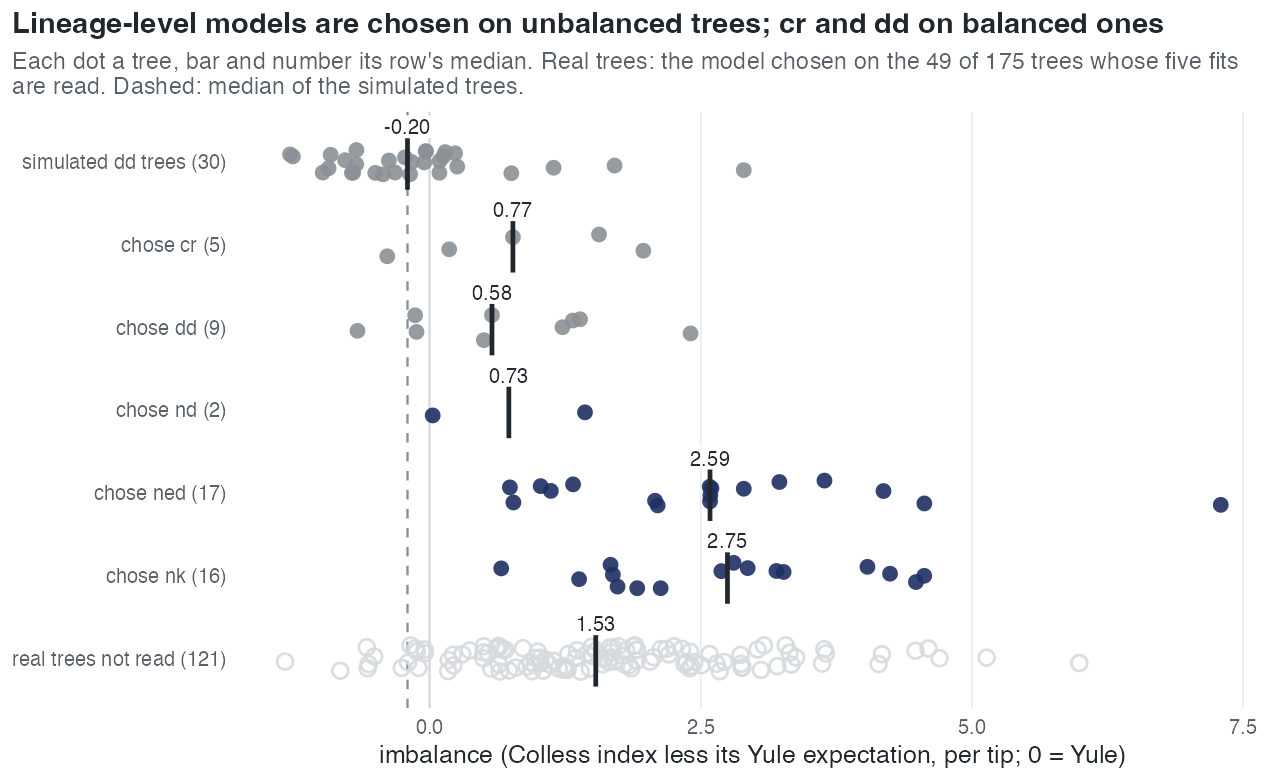
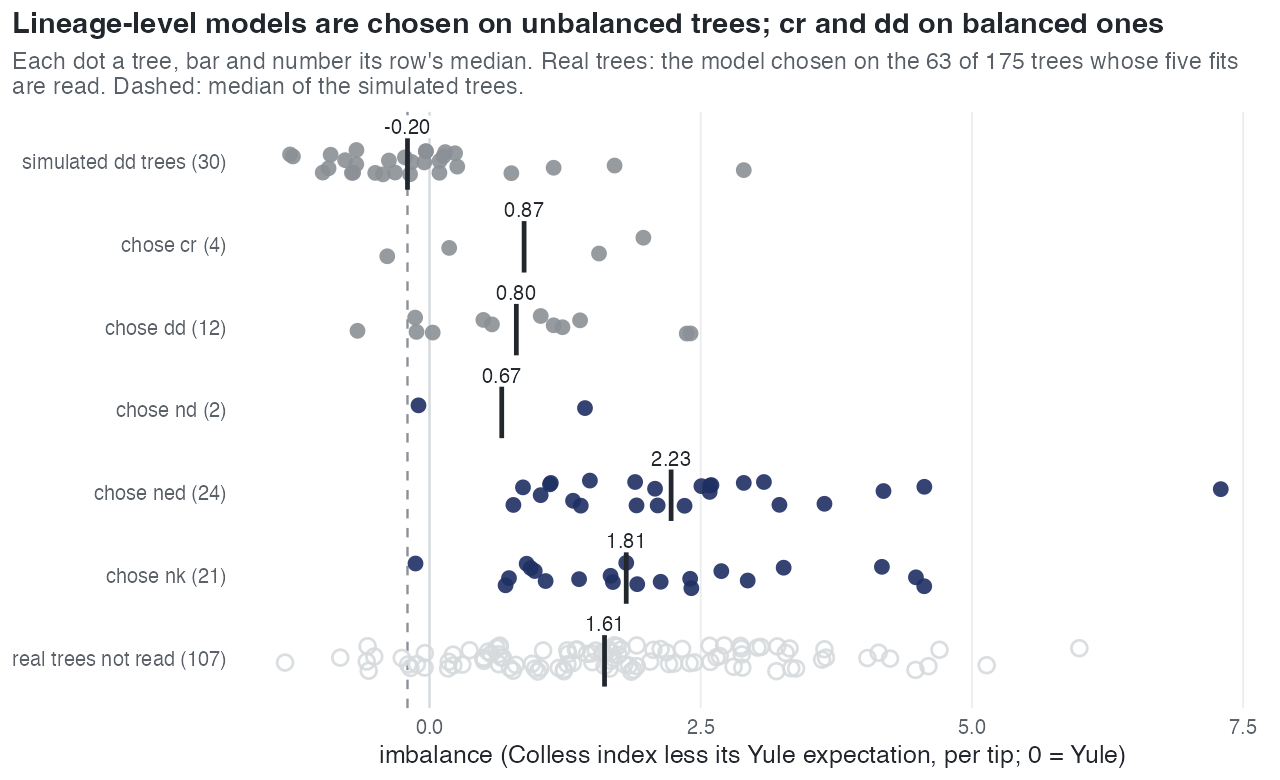
Site rebuilt from the wiki of 21 November (V11b, the reading of record on the real trees); README: the real-tree paragraph from V11b

diff --git a/docs/experiments/V11.html b/docs/experiments/V11.html
@@ -54,9 +54,9 @@ window.MathJax = {
 </li>
 <li><a href="#pre-set-rules">Pre-set rules</a>
 </li>
-<li><a href="#results">Results</a>
-</li>
 <li><a href="#amendment-of-19-november-v11b">Amendment of 19 November (V11b)</a>
+</li>
+<li><a href="#results">Results</a>
 </li>
 </ol>
 </nav>
@@ -65,7 +65,7 @@ window.MathJax = {
 <tbody>
 <tr>
 <td>Status</td>
-<td>complete on 18 November 2026 (865 of 875 fits under emphasis <code>b21083f</code> and <code>projected</code>): 49 of 175 trees read; on them the conditioned ladder makes the unconditioned choice of <a href="E40.html">E40</a> on 46 of 49. Amendment of 2026-11-19 (V11b): every tree's <code>nd</code> fit refitted on the surrogate proposal (175 fits, running on Bre) and the 10 stopped fits refitted with a 44-hour clock</td>
+<td>read on 21 November 2026 with the <code>nd</code> fit on the surrogate proposal (amendment of 2026-11-19, V11b): 63 of 175 trees read, on them the conditioned ladder makes the unconditioned choice of <a href="E40.html">E40</a> on 60 of 63; all 175 <code>nd</code> refits in, the 10 refits on the 44-hour clock (nine <code>nk</code>, one <code>ned</code>) queued on Bre. The reading with the thinning <code>nd</code> fits (865 of 875 fits, 18 November) is the registered one and is reported beside it</td>
 </tr>
 <tr>
 <td>Series</td>
@@ -105,17 +105,21 @@ window.MathJax = {
 </div>
 <h2 id="pre-set-rules">Pre-set rules</h2>
 <ol type="1">
-<li>Registered to be submitted once V1–V10 are read; submitted on 11 November under the protocol settled on 8 November, because <a href="V7.html">V7</a>'s first reading (the conditioned ladder names <code>ned</code> on 2 of 52 simulated trees with an ED effect, <code>nk</code> on 12 of 20 in the one cell read) puts in question the <code>ned</code> and <code>nk</code> choices the unconditioned fits made on the real trees (<a href="E40.html">E40</a>: 50 and 67 of 170). A change of protocol V5–V10 call for reruns it.</li>
+<li>Registered to be submitted once V1–V10 are read; submitted on 11 November under the protocol settled on 8 November, because <a href="V7.html">V7</a>'s first reading (the conditioned ladder names <code>ned</code> on 2 of 52 simulated trees with an ED effect, <code>nk</code> on 12 of 20 in the one cell read) puts in question the <code>ned</code> and <code>nk</code> choices the unconditioned fits made on the real trees (<a href="E40.html">E40</a>: 51 and 67 of 170). A change of protocol V5–V10 call for reruns it.</li>
 </ol>
-<h2 id="results">Results</h2>
-<p>Read 18 November (<code>sim/V11-analysis.R</code>; tables in <code>results/V11/</code>). A fit is read when it ended converged or on the 1000-iteration cap with a finite log-likelihood and a final effective sample of at least 10 (the protocol of the amendment of 2026-11-11); a tree is read when its five ladder fits are; the choice is the fewest parameters within 2 AIC of the minimum.</p>
-<p><strong>Fits.</strong> 668 of 865 read: <code>cr</code> 175 of 175, <code>dd</code> 168, <code>ned</code> 143, <code>nk</code> 108, <code>nd</code> 74. The unread fits are at an effective sample below 10 (<code>nd</code> 93, <code>nk</code> 45, <code>ned</code> 24, <code>dd</code> 4), on the 22-hour clock (15) or without a log-likelihood (16).</p>
-<p><strong>Trees.</strong> 49 read, 116 unread, 10 incomplete (a job without a row). <code>nd</code> alone leaves 101 trees unread, <code>nk</code> 67, <code>ned</code> 32, <code>dd</code> 7 (a tree can fail on several). The read trees have 50–196 tips (median 109), the unread ones 50–370 (median 125).</p>
-<p><strong>Choice on the 49 read trees:</strong> <code>cr</code> 5, <code>dd</code> 9, <code>nd</code> 2, <code>ned</code> 17, <code>nk</code> 16 — a lineage-level model on 35. By set: class-tree clades <code>cr</code> 3, <code>dd</code> 5, <code>ned</code> 14, <code>nk</code> 10; Condamine families <code>cr</code> 2, <code>dd</code> 4, <code>nd</code> 2, <code>ned</code> 3, <code>nk</code> 6. Against <a href="E40.html">E40</a>'s unconditioned choice on the same trees the choice is the same on 46 of 49 (<code>cr</code> 5, <code>dd</code> 9, <code>ned</code> 16, <code>nk</code> 16); the three that differ move from <code>cr</code> or <code>dd</code> to <code>nd</code> and from <code>nk</code> to <code>ned</code>. <span class="math inline">\(\beta_K\)</span> is positive on all 16 <code>nk</code> trees (median 0.148). A richer read fit lies more than 1 log-likelihood unit below the model it nests on 3 read trees.</p>
-<p><strong>Descriptive, not the design's ladder</strong> (the four fits <code>cr</code>, <code>dd</code>, <code>ned</code>, <code>nk</code>, leaving out <code>nd</code>, whose sampler fails most often): 96 trees have all four read; the choice is <code>cr</code> 6, <code>dd</code> 19, <code>ned</code> 33, <code>nk</code> 38, and E40's choice is kept on 90 of 96. The trees choosing <code>ned</code> or <code>nk</code> have a median of 124 tips, those choosing <code>cr</code> or <code>dd</code> 71.</p>
-<p><strong>What it does not settle.</strong> On simulated trees of about 100 tips the same ladder names a lineage-level model on 0 of 54 trees without one and misses most real effects (<a href="V7.html">V7</a>); on real trees it names one on 35 of 49 read trees. Whether those choices reflect a lineage-level process or a feature of real trees that the simulations lack (imbalance, the processes of <a href="V9.html">V9</a>) is not decided by V11.</p>
 <h2 id="amendment-of-19-november-v11b">Amendment of 19 November (V11b)</h2>
-<p>The <code>nd</code> fit, on its default thinning proposal, has a final effective sample below 10 on 93 of 175 trees and alone leaves 101 trees unread. Every tree's <code>nd</code> fit is refitted with the surrogate proposal (<code>control$sampling = "bdi"</code>), otherwise as above, with an 18-hour clock, and the 10 fits the cluster stopped (nine <code>nk</code>, one <code>ned</code>) are refitted as above with a 44-hour clock (<code>sim/V11b.R</code>, <code>results/V11b</code>). A test fit on a 50-tip tree kept 191 effective draws of 200. The reading (<code>sim/V11-analysis.R --v11b</code>) replaces each tree's <code>nd</code> row by its V11b row; the reading above stays as the registered one.</p>
+<p>The <code>nd</code> fit on its default thinning proposal is unread for an effective sample below 10 on 93 of 175 trees (final effective sample below 10 on 101; median 7.4). Every tree's <code>nd</code> fit is refitted with the surrogate proposal (<code>control$sampling = "bdi"</code>), otherwise as above, with an 18-hour clock, and the 10 fits the cluster stopped (nine <code>nk</code>, one <code>ned</code>) are refitted as above with a 44-hour clock (<code>sim/V11b.R</code>, <code>results/V11b</code>). <a href="V5.html">V5</a>'s gate measured 143 to 620 effective draws with the surrogate on simulated <code>nd</code> trees of 200 tips, where thinning keeps 2 to 8. The reading replaces each tree's <code>nd</code> row by its V11b row and adds the refitted rows; everything else is V11's reading. The reading with the surrogate <code>nd</code> is the one the papers report; the reading with the thinning <code>nd</code> stays recorded as the registered one and is given beside it.</p>
+<h2 id="results">Results</h2>
+<p>Read 21 November (<code>sim/V11-analysis.R</code> <code>--v11b</code>, <code>sim/V11-report.R --dir results/V11b</code>; tables in <code>results/V11b/</code>). The 10 refits on the 44-hour clock are not yet in; their trees are counted as incomplete. A fit is read when it ended converged or on the 1000-iteration cap with a finite log-likelihood and a final effective sample of at least 10 (the protocol of the amendment of 2026-11-11); a tree is read when its five ladder fits are; the choice is the fewest parameters within 2 AIC of the minimum.</p>
+<p><strong>Fits.</strong> 697 of 865 read: <code>cr</code> 175 of 175, <code>dd</code> 168, <code>ned</code> 143, <code>nk</code> 108, <code>nd</code> 103. The <code>nd</code> fits on the surrogate have a median final effective sample of 13.0; 102 of the 103 read ones end on the iteration cap. The unread fits are at an effective sample below 10 (139: <code>nd</code> 66, <code>nk</code> 45, <code>ned</code> 24, <code>dd</code> 4), on the clock (19) or without a log-likelihood (10).</p>
+<p><strong>Trees.</strong> 63 read, 102 unread, 10 incomplete (a job without a row); 48 of the read trees are class-tree clades and 15 Condamine families. Of the 102 unread trees, <code>nd</code> fails on 67 (on 33 it is the only model that fails), <code>nk</code> on 57, <code>ned</code> on 31, <code>dd</code> on 6. The read trees have 50–196 tips (median 111), the unread ones 50–370 (median 116).</p>
+<p><strong>Choice on the 63 read trees:</strong> <code>cr</code> 4, <code>dd</code> 12, <code>nd</code> 2, <code>ned</code> 24, <code>nk</code> 21 — a lineage-level model on 47. By set: class-tree clades <code>cr</code> 2, <code>dd</code> 7, <code>nd</code> 1, <code>ned</code> 20, <code>nk</code> 18; Condamine families <code>cr</code> 2, <code>dd</code> 5, <code>nd</code> 1, <code>ned</code> 4, <code>nk</code> 3. By class, 51 of the read trees are birds (lineage-level on 44) and 12 mammals (on 3). Against <a href="E40.html">E40</a>'s unconditioned choice on the same trees the choice is the same on 60 of 63; the three that differ move from <code>cr</code> to <code>dd</code>, from <code>cr</code> to <code>nd</code> and from <code>nk</code> to <code>ned</code>. <span class="math inline">\(\beta_K\)</span> is positive on all 21 <code>nk</code> trees (median 0.140). A richer read fit lies more than 1 log-likelihood unit below the model it nests on 1 read tree.</p>
+<p><strong>Factors</strong> (speciation rate ratio per standard deviation of the covariate, over the read fits off the speciation edge of the box). <span class="math inline">\(K\)</span>: median 1.50, above 1 on 104 of 108 read <code>nk</code> fits; on the 21 trees choosing <code>nk</code> median 1.56, above 1 on all. ED: median 0.67, above 1 on 3 of the 109 with a factor; on the 24 trees choosing <code>ned</code> median 0.48, above 1 on none. <span class="math inline">\(D\)</span>: median 0.79, above 1 on 14 of 99; on the 2 trees choosing <code>nd</code> median 1.10. The <span class="math inline">\(K\)</span> factor rises with the normalised Colless index (rank correlation 0.63 over 108 fits) and the ED factor falls with it (−0.58 over all 143 read <code>ned</code> fits, −0.49 over the 109 drawn in the figure). The trees choosing a lineage-level model have a median Colless index of 1.91, those choosing <code>cr</code> or <code>dd</code> 0.80.</p>
+<p><strong>The pairs.</strong> Both members are read on 3 of the 30 pairs (same choice on 1). Where a coefficient is read in both members its factor lies on the same side of 1 on 21 of 22 (<span class="math inline">\(D\)</span> 5 of 6, ED 6 of 6, <span class="math inline">\(K\)</span> 10 of 10).</p>
+<p><strong>Where the two readings differ.</strong> The <code>nd</code> fit is read on both samplers on 52 trees, on the thinning proposal only on 22 and on the surrogate only on 51; its median final effective sample is 7.4 on thinning and 13.0 on the surrogate. 37 trees differ in state or choice (36 change state; the Bovidae family tree changes choice). 25 are read only with the surrogate <code>nd</code> (thinning effective sample 1.0–7.5, surrogate 10.6–197.9), among them the Condamine families Phasianidae (<code>ned</code>), Scolopacidae (<code>nk</code>) and Troglodytidae (<code>dd</code>). 11 are read only with the thinning <code>nd</code>, whose surrogate fit keeps 1.3–8.3 effective draws: the Condamine families Corvidae (<code>nk</code> on thinning), Hirundinidae (<code>nk</code>), Laridae (<code>nk</code>), Leporidae (<code>nk</code>) and Monarchidae (<code>dd</code>), and the clades bird-051-Monarchidae, bird-065-Falconidae, bird-070-Tinamidae, mamm-015-Bovidae, mamm-034-Cricetidae and mamm-035-Nesomyidae. The Bovidae family tree is read in both and moves from <code>nd</code> (thinning) to <code>dd</code> (surrogate). The <code>nk</code> and <code>ned</code> fits are the same in both readings, so their factors and AIC comparisons do not change; only the choices of trees whose <code>nd</code> row changes do.</p>
+<p><strong>The thinning reading (V11, registered).</strong> Read 18 November (<code>results/V11/</code>): 668 of 865 fits read (<code>nd</code> 74); 49 trees read, 116 unread, 10 incomplete; <code>nd</code> fails on 93 of the 116 unread trees. Choice on the 49: <code>cr</code> 5, <code>dd</code> 9, <code>nd</code> 2, <code>ned</code> 17, <code>nk</code> 16, a lineage-level model on 35 (median Colless 2.59 against 0.67 for <code>cr</code> or <code>dd</code>); E40's choice kept on 46 of 49; <span class="math inline">\(\beta_K\)</span> positive on all 16 <code>nk</code> trees (median 0.148); 17 family trees read; both members of 2 pairs read.</p>
+<p><strong>Descriptive, not the design's ladder</strong> (the four fits <code>cr</code>, <code>dd</code>, <code>ned</code>, <code>nk</code>, leaving out <code>nd</code>; the same in both readings): 96 trees have all four read; the choice is <code>cr</code> 6, <code>dd</code> 19, <code>ned</code> 33, <code>nk</code> 38, and E40's choice is kept on 90 of 96. The trees choosing <code>ned</code> or <code>nk</code> have a median of 124 tips, those choosing <code>cr</code> or <code>dd</code> 71.</p>
+<p><strong>What it does not settle.</strong> On simulated trees of about 100 tips the same ladder names a lineage-level model on 0 of 54 trees without one and misses most real effects (<a href="V7.html">V7</a>); on real trees it names one on 47 of 63 read trees. Whether those choices reflect a lineage-level process or a feature of real trees that the simulations lack (imbalance, the processes of <a href="V9.html">V9</a>) is not decided by V11.</p>
 
 </article>
 </main>

diff --git a/docs/real-phylogenies.html b/docs/real-phylogenies.html
@@ -66,28 +66,28 @@ window.MathJax = {
 </li>
 </ol>
 </nav>
-<p>The trees are the bird and mammal family trees of Condamine et al. (2019) with 50 to 400 tips, a tip-depth spread of at most 15% of the crown age and a sampling fraction against the class tree between 0.5 and 1.10 (59 trees, <span class="math inline">\(\rho\)</span> taken as <span class="math inline">\(\min(\rho, 1)\)</span>), and the bird and mammal class trees (McTavish et al. 2025, 10,824 tips; Upham et al. 2019, 5,912 tips) cut from the root into disjoint clades of 50 to 200 tips (116 clades, <span class="math inline">\(\rho = 1\)</span>); 30 clades stand for a family that also has a Condamine tree, and make the pairs. Every tree is fitted by the five models of the ladder under the protocol of the validation series (<a href="experiments/V11.html">V11</a>): conditioned on survival, emphasis <code>b21083f</code>, 200 draws, <code>projected</code>, a fit on the 1000-iteration cap read as the estimate, a 22-hour clock. A fit is read when it ended by its rule or on the cap with a final effective sample of at least 10; a statement about one model rests on that model's read fits, and a model choice on the trees whose five fits are read. The <code>nd</code> rung is being refitted on the surrogate proposal (<a href="experiments/V11.html">V11</a>, V11b); the numbers below are V11's registered reading.</p>
+<p>The trees are the bird and mammal family trees of Condamine et al. (2019) with 50 to 400 tips, a tip-depth spread of at most 15% of the crown age and a sampling fraction against the class tree between 0.5 and 1.10 (59 trees, <span class="math inline">\(\rho\)</span> taken as <span class="math inline">\(\min(\rho, 1)\)</span>), and the bird and mammal class trees (McTavish et al. 2025, 10,824 tips; Upham et al. 2019, 5,912 tips) cut from the root into disjoint clades of 50 to 200 tips (116 clades, <span class="math inline">\(\rho = 1\)</span>); 30 clades stand for a family that also has a Condamine tree, and make the pairs. Every tree is fitted by the five models of the ladder under the protocol of the validation series (<a href="experiments/V11.html">V11</a>): conditioned on survival, emphasis <code>b21083f</code>, 200 draws, <code>projected</code>, a fit on the 1000-iteration cap read as the estimate, a 22-hour clock (the surrogate <code>nd</code> fits 18 hours). A fit is read when it ended by its rule or on the cap with a final effective sample of at least 10; a statement about one model rests on that model's read fits, and a model choice on the trees whose five fits are read. The <code>nd</code> fit is the one on the surrogate proposal (the reading of <a href="experiments/V11.html">V11</a>'s amendment V11b; 10 refits of <code>nk</code> and <code>ned</code> pending); the reading with the thinning <code>nd</code>, the registered one, is given beside it. The <code>cr</code>, <code>dd</code>, <code>ned</code> and <code>nk</code> fits are the same in both readings.</p>
 <h2 id="diversity-dependence">Diversity dependence</h2>
 <figure id="figure-1">
 <img src="assets/wiki/fig-p-real-ddgamma.png" alt="dd lead against gamma" loading="lazy">
 <figcaption><strong>Figure 1.</strong> dd lead against gamma</figcaption>
-</figure><p><code>dd</code> leads <code>cr</code> by more than 2 AIC on 147 of the 168 trees where both fits are read (43 of 56 family trees), and <span class="math inline">\(\beta_N\)</span> is negative on all 168. The lead tracks <span class="math inline">\(\gamma_{\mathrm{PH}}\)</span> (rank correlation −0.97; −0.89 over the family trees); the largest family leads are Thraupidae (161 AIC), Parulidae (54), Phasianidae (41), Cercopithecidae (36) and Turdidae (35). (<code>results/V11/dd-vs-cr.csv</code>)</p>
+</figure><p><code>dd</code> leads <code>cr</code> by more than 2 AIC on 147 of the 168 trees where both fits are read (43 of 56 family trees), and <span class="math inline">\(\beta_N\)</span> is negative on all 168. The lead tracks <span class="math inline">\(\gamma_{\mathrm{PH}}\)</span> (rank correlation −0.97; −0.89 over the family trees); the largest family leads are Thraupidae (161 AIC), Parulidae (54), Phasianidae (41), Cercopithecidae (36) and Turdidae (35). (<code>results/V11b/dd-vs-cr.csv</code>)</p>
 <h2 id="model-choice">Model choice</h2>
 <figure id="figure-2">
 <img src="assets/wiki/fig-p-real-imbalance.png" alt="model choice against imbalance" loading="lazy">
 <figcaption><strong>Figure 2.</strong> model choice against imbalance</figcaption>
-</figure><p>49 trees have all five fits read (17 family trees, 32 clades); the <code>nd</code> fit alone leaves 101 unread (effective sample below 10 on 93). On the 49 the parsimony rule chooses <code>ned</code> on 17, <code>nk</code> on 16, <code>nd</code> on 2, <code>dd</code> on 9 and <code>cr</code> on 5, and the trees that choose a lineage-level model have a median normalised Colless index of 2.59 against 0.67 for those that stop at <code>cr</code> or <code>dd</code>; 30 simulated <code>dd</code> trees sit at −0.20. On the 49, the unconditioned ladder of <a href="experiments/E40.html">E40</a> made the same choice on 46. Leaving <code>nd</code> out (a reading the design did not register), 96 trees have four fits read: <code>nk</code> 38, <code>ned</code> 33, <code>dd</code> 19, <code>cr</code> 6. (<code>results/V11/trees.csv</code>)</p>
+</figure><p>63 trees have all five fits read (15 family trees, 48 clades); 102 are unread, <code>nd</code> failing on 67 of them (effective sample below 10 on 64), and 10 incomplete. On the 63 the parsimony rule chooses <code>ned</code> on 24, <code>nk</code> on 21, <code>nd</code> on 2, <code>dd</code> on 12 and <code>cr</code> on 4, and the trees that choose a lineage-level model have a median normalised Colless index of 1.91 against 0.80 for those that stop at <code>cr</code> or <code>dd</code>; 30 simulated <code>dd</code> trees sit at −0.20. On the 63, the unconditioned ladder of <a href="experiments/E40.html">E40</a> made the same choice on 60. With the thinning <code>nd</code> 49 trees are read (17 family trees) and choose <code>ned</code> 17, <code>nk</code> 16, <code>nd</code> 2, <code>dd</code> 9, <code>cr</code> 5 (Colless 2.59 against 0.67). Leaving <code>nd</code> out (a reading the design did not register), 96 trees have four fits read: <code>nk</code> 38, <code>ned</code> 33, <code>dd</code> 19, <code>cr</code> 6. (<code>results/V11b/trees.csv</code>, <code>results/V11/trees.csv</code>)</p>
 <h2 id="coefficients">Coefficients</h2>
 <figure id="figure-3">
 <img src="assets/wiki/fig-p-real-factors.png" alt="factors against imbalance" loading="lazy">
 <figcaption><strong>Figure 3.</strong> factors against imbalance</figcaption>
-</figure><p>The ancestral-split factor per standard deviation of <span class="math inline">\(K\)</span> is above 1 on 104 of 108 read <code>nk</code> fits (median 1.50) and on all 16 trees that choose <code>nk</code> (median 1.72). The distinctiveness factor is below 1 on 109 of the 112 read <code>ned</code> fits off the box edge (median 0.67) and on all 17 that choose <code>ned</code> (median 0.47). The age-imbalance factor has a median of 0.77 over 72 read <code>nd</code> fits. The <span class="math inline">\(K\)</span> factor rises with imbalance (rank correlation 0.63 over 108 fits) and the <span class="math inline">\(\mathrm{ED}\)</span> factor falls with it (−0.49 over 109). Where both are read, <code>nk</code> has the lower AIC on 59 of 98 trees. (<code>results/V11/coefficients.csv</code>)</p>
+</figure><p>The ancestral-split factor per standard deviation of <span class="math inline">\(K\)</span> is above 1 on 104 of 108 read <code>nk</code> fits (median 1.50) and on all 21 trees that choose <code>nk</code> (median 1.56). The distinctiveness factor is below 1 on 106 of the 112 read <code>ned</code> fits off the box edge (above 1 on 3; 3 without a finite factor; median 0.67) and on all 24 that choose <code>ned</code> (median 0.48). The age-imbalance factor has a median of 0.79 over the 99 read <code>nd</code> fits off the box edge (0.77 over 72 with the thinning <code>nd</code>). The <span class="math inline">\(K\)</span> factor rises with imbalance (rank correlation 0.63 over 108 fits) and the <span class="math inline">\(\mathrm{ED}\)</span> factor falls with it (−0.49 over 109). Where both are read, <code>nk</code> has a lower AIC than <code>ned</code> on 59 of 98 trees. (<code>results/V11b/coefficients.csv</code>)</p>
 <figure id="figure-4">
 <img src="assets/wiki/fig-p-real-trees.png" alt="four families" loading="lazy">
 <figcaption><strong>Figure 4.</strong> four families</figcaption>
-</figure><p>In the families that choose <code>nk</code> one genus holds most of the fast lineages: <em>Corvus</em> (factor 2.1), <em>Lepus</em> (2.7), <em>Pachycephala</em> (2.7); in the New World warblers (<code>ned</code>, 0.40) <em>Geothlypis</em> and part of <em>Setophaga</em>.</p>
+</figure><p>In the families drawn with their <code>nk</code> fit one genus holds most of the fast lineages: <em>Corvus</em> (factor 2.1), <em>Lepus</em> (2.7), <em>Pachycephala</em> (2.7); in the New World warblers (<code>ned</code>, 0.40) <em>Geothlypis</em> and part of <em>Setophaga</em>. Pachycephalidae chooses <code>nk</code> and Parulidae <code>ned</code>; Corvidae and Leporidae choose <code>nk</code> with the thinning <code>nd</code> and are unread with the surrogate <code>nd</code>, whose fit keeps 2.7 and 8.3 effective draws.</p>
 <h2 id="the-pairs">The pairs</h2>
-<p>Both members are read on 2 of the 30 pairs, so the pre-set rule (same choice on at least 70%, same sign on at least 80%) cannot be applied. Where a coefficient is read in both members, its factor lies on the same side of 1 on all 18. (<code>results/V11/pairs.csv</code>)</p>
+<p>Both members are read on 3 of the 30 pairs (2 with the thinning <code>nd</code>), so the pre-set rule (same choice on at least 70%, same sign on at least 80%) cannot be applied. Where a coefficient is read in both members, its factor lies on the same side of 1 on 21 of 22 (18 of 18 with the thinning <code>nd</code>). (<code>results/V11b/pairs.csv</code>)</p>
 <h2 id="mcem-against-the-exact-estimate">MCEM against the exact estimate</h2>
 <figure id="figure-5">
 <img src="assets/wiki/real-exact-v4.png" alt="MCEM against the exact conditioned maximum" loading="lazy">
@@ -101,7 +101,7 @@ window.MathJax = {
 </figure>
 <p>On the 16 smallest trees (50-65 tips) no exact constant-rate likelihood excludes zero extinction: LR(0) is below <span class="math inline">\(10^{-6}\)</span> on 14, 1.64 on Dipodidae (<span class="math inline">\(\hat\mu = 0.065\)</span>, <span class="math inline">\(\hat\lambda = 0.130\)</span>) and -0.006 on Tinamidae (an optimiser shortfall, drawn at 0). All 135 continuation jobs of the pilot are written (72 arm A, 63 arm B). Moving the edge out gains a median 0.004 nats (quartiles 0.001 and 0.039; range -1.01 to 2.67); the edge binds on 4 of 63 (6%), three of them pairs in which an arm did not converge, against the 20% of <a href="experiments/E41.html">E41</a>'s rule 2, so the box stays and a parameter on an edge is read as not bounded by the tree in that direction. Arm B ends on its moved edge on 37 of 63: every extinction slope on an edge (<span class="math inline">\(\gamma_N\)</span> 47, <span class="math inline">\(\gamma_{ED}\)</span> 16, <span class="math inline">\(\gamma_K\)</span> 11) runs to the new edge, three times as far from zero, for no gain. The -1.01 is Acanthizidae <code>nd</code>, whose arm B ended below arm A, within two standard errors of zero (standard error 0.54). Arm A meets the stopping rule within 1000 iterations on 34 of 72 jobs (<code>dd</code> 16 of 16, <code>ned</code> 12 of 16, <code>cr</code> 6 of 8, <code>nd</code> 0 of 16, <code>nk</code> 0 of 16), and re-ranking each tree with the continued fits changes the parsimonious choice on 0 of 16 (rule 1: 10%): E40's choices on these trees stand. E41 is closed at the pilot; the 154 trees beyond it are not run.</p>
 <h2 id="where-the-data-are">Where the data are</h2>
-<p><code>results/V11/</code> of the experiments repository: <code>fits.csv</code> (every fit), <code>trees.csv</code> (read state and choice per tree), <code>coefficients.csv</code> (factor per read lineage-level fit), <code>dd-vs-cr.csv</code> (lead and <span class="math inline">\(\gamma_{\mathrm{PH}}\)</span>), <code>pairs.csv</code>, built by <code>sim/V11-analysis.R</code> and <code>sim/V11-report.R</code>; figures by <code>sim/paper-figs/fig-p-real.R</code> and <code>fig-p-real-trees.R</code>. The earlier unconditioned analysis is <a href="experiments/E40.html">E40</a>.</p>
+<p><code>results/V11b/</code> (surrogate <code>nd</code>) and <code>results/V11/</code> (thinning <code>nd</code>) of the experiments repository: <code>fits.csv</code> (every fit), <code>trees.csv</code> (read state and choice per tree), <code>coefficients.csv</code> (factor per read lineage-level fit), <code>dd-vs-cr.csv</code> (lead and <span class="math inline">\(\gamma_{\mathrm{PH}}\)</span>), <code>pairs.csv</code>, built by <code>sim/V11-analysis.R</code> (<code>--v11b</code>) and <code>sim/V11-report.R</code>; figures by <code>sim/paper-figs/fig-p-real.R</code> and <code>fig-p-real-trees.R</code>. The earlier unconditioned analysis is <a href="experiments/E40.html">E40</a>.</p>
 <h2 id="related">Related</h2>
 <p><a href="experiments/V11.html">V11</a> · <a href="experiments/V4.html">V4</a> (MCEM against the exact estimate) · <a href="experiments/E41.html">E41</a> (box edges) · <a href="experiments/E42.html">E42</a> · <a href="experiments/estimability.html">Estimability</a></p>
 

diff --git a/docs/experiments/estimability.html b/docs/experiments/estimability.html
@@ -225,14 +225,14 @@ window.MathJax = {
 </ul>
 <p>A slope estimated within a factor of 2 is not a model selected: <code>ned</code>'s ED slope is in that range on about half of its trees and <code>ned</code> is chosen on 1 of 19.</p>
 <h2 id="on-real-trees">On real trees</h2>
-<p>On the 175 real trees MCEM reaches the exact conditioned maximum for <code>cr</code> and <code>dd</code> (median shortfall -0.01 to -0.16; <a href="V4.html">V4</a>). For the lineage-level models the two limits above appear on the 217 real trees fitted with <code>nd</code> before the conditioned fits (<a href="E48.html">E48</a>): 69 fits are sampler-limited, and among the 145 that can be read, an extinction-side or D coefficient sits on an edge of the parameter box on 47. The ladder is being refitted on the 175 trees under the conditioned likelihood (<a href="V11.html">V11</a>).</p>
+<p>On the 175 real trees MCEM reaches the exact conditioned maximum for <code>cr</code> and <code>dd</code> (median shortfall -0.01 to -0.16; <a href="V4.html">V4</a>). Under the conditioned likelihood, with the <code>nd</code> fit on the surrogate (<a href="V11.html">V11</a>, reading V11b), the sampler limits the lineage-level fits: the final effective sample is below 10 on 66 <code>nd</code>, 45 <code>nk</code> and 24 <code>ned</code> fits of 175, and 63 of the 175 trees have all five fits read (10 refits pending); with the <code>nd</code> fit on thinning, the registered reading, 93 <code>nd</code> fits are below 10 and 49 trees are read. An extinction parameter sits on an edge of the box on 275 of the 354 read lineage-level fits.</p>
 <h2 id="not-yet-known">Not yet known</h2>
 <ul>
 <li>From how many tips each lineage-level coefficient is reliable beyond 100: the 200-tip fits of the cells whose sampler holds are running, and 400 tips follow where a coefficient is not reliable at 200 (<a href="V5.html">V5</a>).</li>
 <li>Whether a larger tree or a stronger effect brings model choice to the 80% rule: it was measured at about 100 tips and ±0.35 only (<a href="V7.html">V7</a>).</li>
 <li>From which sampling fraction the lineage-level coefficients are reliable: below <span class="math inline">\(\rho\)</span> 0.9 their fits are sampler-limited at 100 tips, and where read only <span class="math inline">\(\beta_{ED}\)</span> of <code>edc</code> holds, to <span class="math inline">\(\rho\)</span> 0.75; <code>cr</code> holds to <span class="math inline">\(\rho\)</span> 0.5, and a misstated <span class="math inline">\(\rho\)</span> moves <span class="math inline">\(\beta_N\)</span>'s median ratio by 0.12–0.31 (<a href="V6.html">V6</a>).</li>
 <li>Whether a latent rate, protracted speciation or two regions make the ladder choose <code>nk</code>: every V9 cell is sampler-limited (<a href="V9.html">V9</a>), as is the covariate path at the <code>dd</code> estimate (<a href="V8.html">V8</a>).</li>
-<li>Which choices on real trees hold under the conditioned likelihood (<a href="V11.html">V11</a>).</li>
+<li>Whether the lineage-level choices on the read real trees reflect a lineage-level process or a feature of real trees that the simulations lack (<a href="V11.html">V11</a>, <a href="V9.html">V9</a>).</li>
 <li>Not under study: effects smaller than ±0.35 per scale unit, turnover 0.25 for the lineage-level models, and covariates that drive extinction.</li>
 </ul>
 <h2 id="where-the-numbers-come-from">Where the numbers come from</h2>
@@ -293,8 +293,8 @@ window.MathJax = {
 </tr>
 <tr>
 <td>real trees</td>
-<td><a href="V4.html">V4</a>, <a href="E48.html">E48</a></td>
-<td>175; 217</td>
+<td><a href="V4.html">V4</a>, <a href="V11.html">V11</a></td>
+<td>175</td>
 </tr>
 </tbody>
 </table>

diff --git a/docs/experiments/index.html b/docs/experiments/index.html
@@ -242,8 +242,8 @@ window.MathJax = {
 <tr>
 <td><a href="V11.html">V11</a></td>
 <td>The ladder on the real trees, conditioned</td>
-<td>Complete; <code>nd</code> refit running</td>
-<td>49 of 175 trees read (<code>nd</code>'s sampler leaves 101 unread); on them a lineage-level model is chosen on 35, on the least balanced trees; <span class="math inline">\(\beta_K &gt; 0\)</span> on 104 of 108 read <code>nk</code> fits. V11b refits <code>nd</code> on the surrogate.</td>
+<td>Read; 10 refits pending</td>
+<td>With the <code>nd</code> fit on the surrogate (V11b), 63 of 175 trees read; on them a lineage-level model is chosen on 47, on the least balanced trees, and E40's choice is kept on 60; the <span class="math inline">\(K\)</span> factor is above 1 on 104 of 108 read <code>nk</code> fits. With the thinning <code>nd</code> (the registered reading) 49 trees are read, 35 lineage-level.</td>
 </tr>
 <tr>
 <td><a href="V12.html">V12</a></td>

diff --git a/docs/experiments/validation.html b/docs/experiments/validation.html
@@ -122,7 +122,7 @@ window.MathJax = {
 <td><a href="V11.html">V11</a></td>
 <td>real phylogenies</td>
 <td>E26, E28, E40, E48</td>
-<td>complete (49 of 175 trees read; lineage-level choice on 35); V11b refits <code>nd</code> on the surrogate, running</td>
+<td>read with the surrogate <code>nd</code> (V11b): 63 of 175 trees read, lineage-level choice on 47 (10 refits pending); with the thinning <code>nd</code>, the registered reading, 49 and 35</td>
 </tr>
 <tr>
 <td><a href="V12.html">V12</a></td>

diff --git a/README.md b/README.md
@@ -168,11 +168,11 @@ Each statement below is a measurement on simulated trees with known generating v
 - **Where an exact likelihood exists, MCEM reaches it.** Under constant rates the estimate sits at the exact conditioned maximum in every setting tested (25 to 800 tips); under diversity dependence in 11 of 14, and the three that miss stopped on their time limit ([E45](https://franciscorichter.github.io/emphasis/experiments/E45.html)).
 - **Speciation is read from small trees, extinction from large ones.** Speciation is within a factor of 2 of the truth from 25 tips under constant rates and from 50 under diversity dependence. Extinction is not, at any size up to 800 tips, unless turnover is high; at turnover 0.4 it is from about 200 tips.
 - **Lineage-level slopes are recovered in a minority of settings.** At 50 and 100 tips, 17 of 73 slope settings meet the recovery rule, mostly at 100 tips and low turnover; fit by fit the slope is within a factor of 2 of the truth on 71% of 1,481 fits, with the right sign on 90% ([V5](https://franciscorichter.github.io/emphasis/experiments/V5.html), interim; 200 and 400 tips are running).
-- **The sampler sets the limit before the data do.** `ned`, `nedc`, `ed` with a negative effect, and the thinning sampler at high turnover keep about 10 effective draws or fewer; `d`, `edc` and `nd` on the default `"bdi"` sampler keep hundreds. A fit whose effective sample is below 10 says so when printed; treat its estimate as unread.
+- **The sampler sets the limit before the data do.** `ned`, `nedc`, `ed` with a negative effect, and the thinning sampler at high turnover keep about 10 effective draws or fewer; `d`, `edc` and `nd` on the default `"bdi"` sampler keep hundreds on simulated trees. A fit whose effective sample is below 10 says so when printed; treat its estimate as unread.
 - **At about 100 tips, AIC does not invent a lineage-level effect and usually misses a real one.** No lineage-level model was chosen on any of 54 constant-rate or diversity-dependent trees; on trees generated with a lineage-level effect of ±0.35, the generating covariate's model was chosen on at least 80% of trees in none of 19 settings (at best 12 of 20) ([V7](https://franciscorichter.github.io/emphasis/experiments/V7.html)). Choosing `cr` or `dd` on a tree of this size does not rule out a lineage-level effect.
 - **With nothing hidden, every model's likelihood returns the coefficients that generated the tree.**
 
-On 175 bird and mammal phylogenies the same ladder chooses a lineage-level model on 35 of the 49 trees whose five fits all read (`ned` 17, `nk` 16, `nd` 2), with $\beta_K > 0$ on all 16 `nk` trees ([V11](https://franciscorichter.github.io/emphasis/experiments/V11.html)). Whether those choices reflect a lineage-level process or a feature of real trees that the simulations lack is not settled.
+On 175 bird and mammal phylogenies, with `nd` fitted on the `"bdi"` sampler, the same ladder chooses a lineage-level model on 47 of the 63 trees whose five fits all read (`ned` 24, `nk` 21, `nd` 2), with $\beta_K > 0$ on all 21 `nk` trees; 10 long fits are still queued. With `nd` on the thinning sampler, 49 trees read and 35 of them choose a lineage-level model ([V11](https://franciscorichter.github.io/emphasis/experiments/V11.html)). Whether those choices reflect a lineage-level process or a feature of real trees that the simulations lack is not settled.
 
 ## Citation
 
